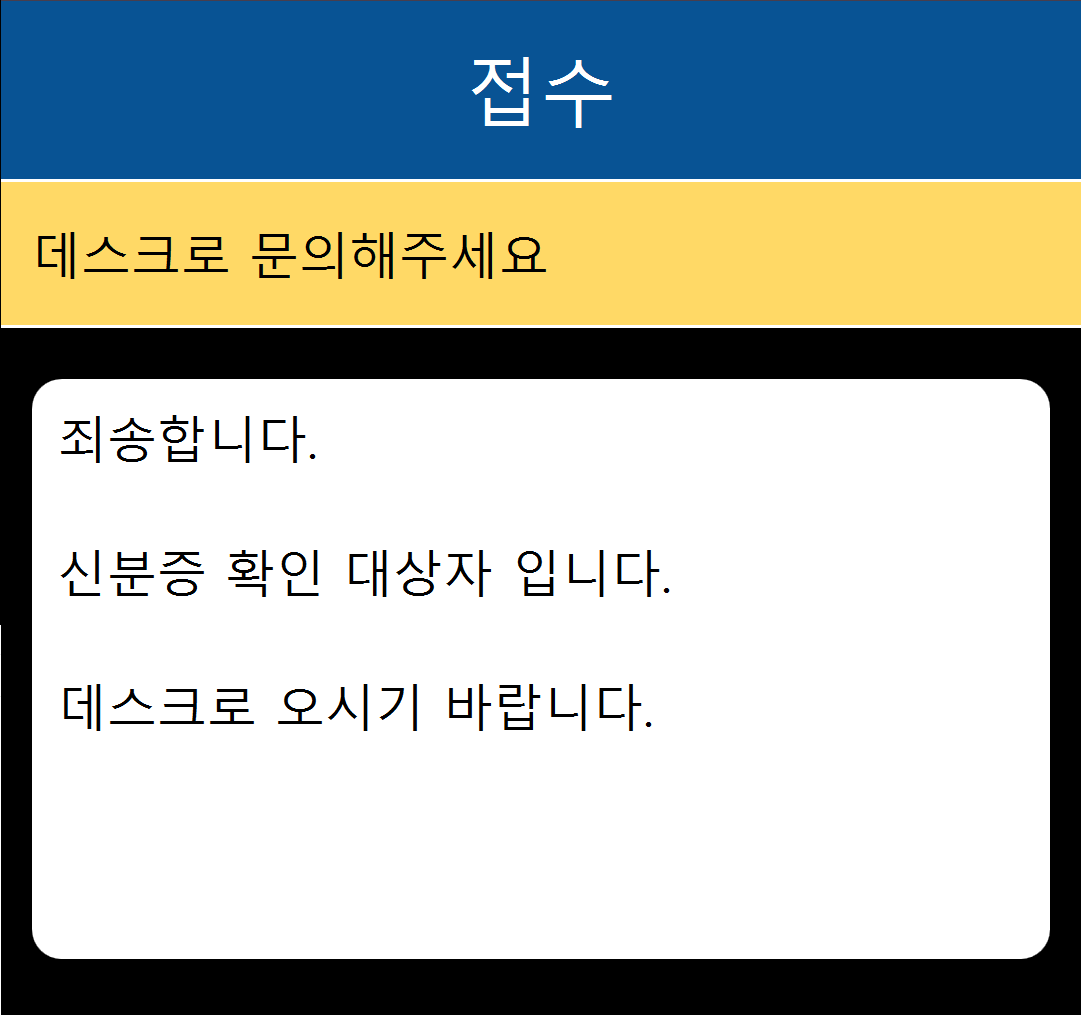
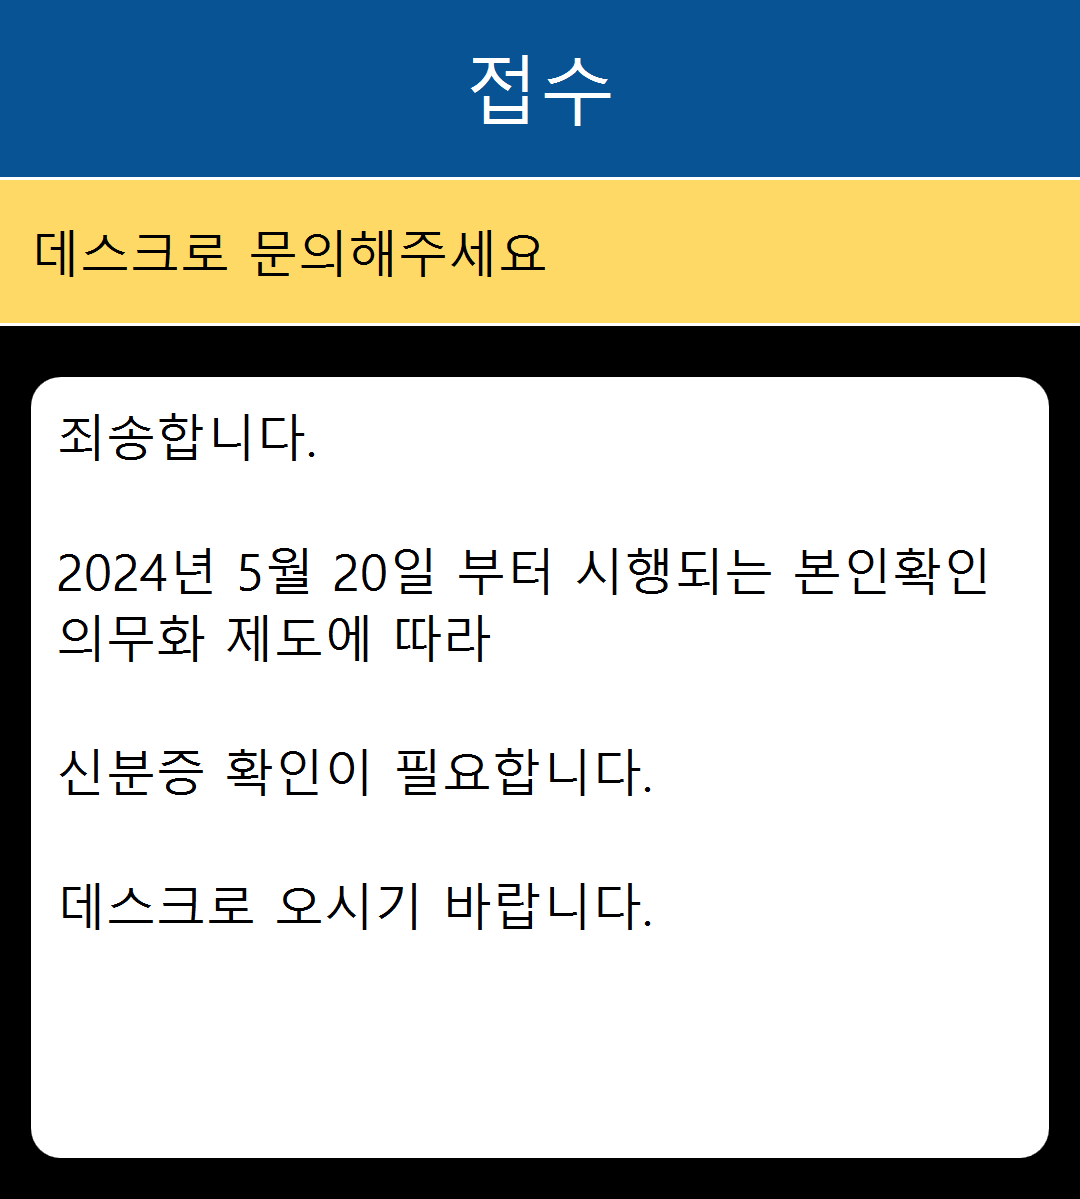
24-0517 본인확인 의무화 KIOSK 이미지 교체

Changed region(s): [[0.0, 0.0305, 1.0, 0.7941], [0.0306, 0.9163, 0.9778, 0.9773], [0.7333, 0.4581, 0.9167, 0.4887]]

diff --git a/_docs/main13/sub24/page9.md b/_docs/main13/sub24/page9.md
@@ -114,7 +114,7 @@ pageOrder: 9
 <table class="imgBox">
     <td class="imgBox">
         <a href="/images/{{page.url}}_8.png" target="_blank">
-            <img class="minCenter" src="/images/{{page.url}}_8.png">
+            <img class="minCenterSmallMid" src="/images/{{page.url}}_8.png">
         </a>
     </td>
 </table> 
